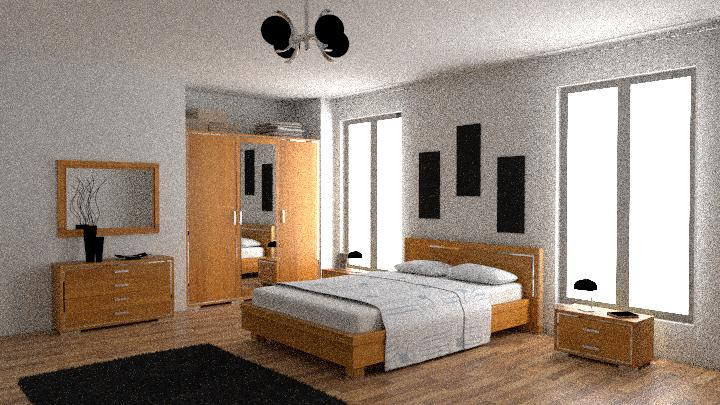
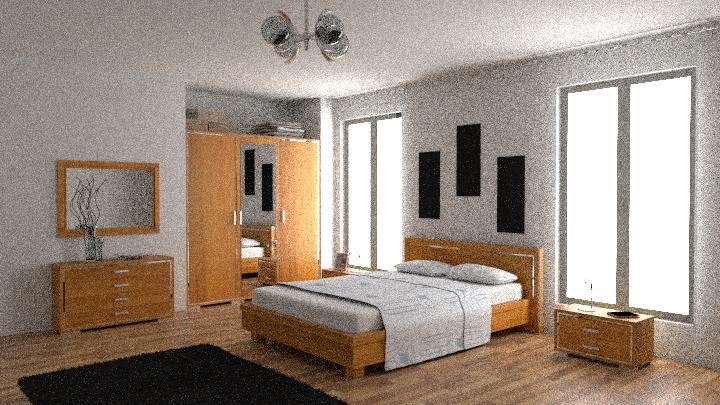
Added refraction

Changed region(s): [[0.0, 0.0, 1.0, 1.0]]

diff --git a/libs/yocto_pathtrace/yocto_pathtrace.cpp b/libs/yocto_pathtrace/yocto_pathtrace.cpp
@@ -461,6 +461,9 @@ static vec3f eval_bsdfcos(const material_point& material, const vec3f& normal,
         return eval_reflective(material.color, material.roughness, normal, outgoing, incoming);
       case material_type::transparent:
         return eval_transparent(material.color, material.ior, material.roughness, normal, outgoing, incoming);
+      case material_type::refractive:
+        return eval_refractive(material.color, material.ior, material.roughness,
+            normal, outgoing, incoming);
       case material_type::hair:
         return eval_hairbsdf(outgoing, incoming, material.hair);
       default: return zero3f;
@@ -477,6 +480,9 @@ static vec3f eval_delta(const material_point& material, const vec3f& normal,
       return eval_reflective(material.color, normal, outgoing, incoming);
     case material_type::transparent:
       return eval_transparent(material.color, material.ior, normal, outgoing, incoming);
+    case material_type::refractive:
+      return eval_refractive(
+          material.color, material.ior, normal, outgoing, incoming);
     case material_type::hair:
       return eval_hairbsdf(outgoing, incoming, material.hair);
     default: return zero3f;
@@ -499,6 +505,9 @@ static vec3f sample_bsdfcos(const material_point& material, const vec3f& normal,
     return sample_reflective(material.color, material.roughness, normal, outgoing, rn);
   case material_type::transparent:
     return sample_transparent(material.color, material.ior, material.roughness, normal, outgoing, rnl, rn);
+  case material_type::refractive:
+    return sample_refractive(material.color, material.ior, material.roughness,
+        normal, outgoing, rnl, rn);
   case material_type::hair:
     return sample_hair(material.hair, outgoing, rn, rnl, rl);
   default: return zero3f;
@@ -514,6 +523,9 @@ static vec3f sample_delta(const material_point& material, const vec3f& normal,
       return sample_reflective(material.color, normal, outgoing);
     case material_type::transparent:
       return sample_transparent(material.color, material.ior, normal, outgoing, rnl);
+    case material_type::refractive:
+      return sample_refractive(
+          material.color, material.ior, normal, outgoing, rnl);
     case material_type::hair:
       return sample_hair(material.hair, outgoing, rn, rnl, rl);
     default: return zero3f;
@@ -534,6 +546,9 @@ static float sample_bsdfcos_pdf(const material_point& material,
       return sample_reflective_pdf(material.color, material.roughness, normal, outgoing, incoming);
     case material_type::transparent:
       return sample_tranparent_pdf(material.color, material.ior, material.roughness, normal, outgoing, incoming);
+    case material_type::refractive:
+      return sample_refractive_pdf(material.color, material.ior,
+          material.roughness, normal, outgoing, incoming);
     case material_type::hair: 
       return sample_hair_pdf(material.hair, outgoing, incoming);
     default: 
@@ -550,6 +565,9 @@ static float sample_delta_pdf(const material_point& material,
       return sample_reflective_pdf(material.color, normal, outgoing, incoming);
     case material_type::transparent:
       return sample_tranparent_pdf(
+          material.color, material.ior, normal, outgoing, incoming);
+    case material_type::refractive:
+      return sample_refractive_pdf(
           material.color, material.ior, normal, outgoing, incoming);
     case material_type::hair:
       return sample_hair_pdf(material.hair, outgoing, incoming);
